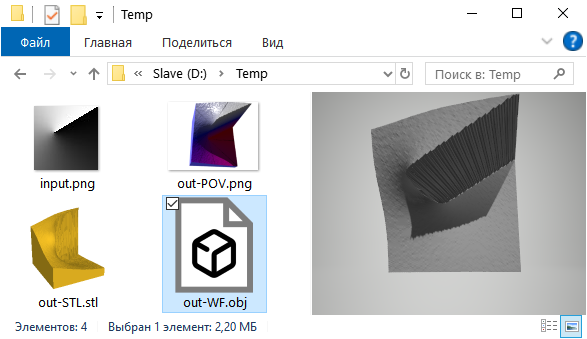
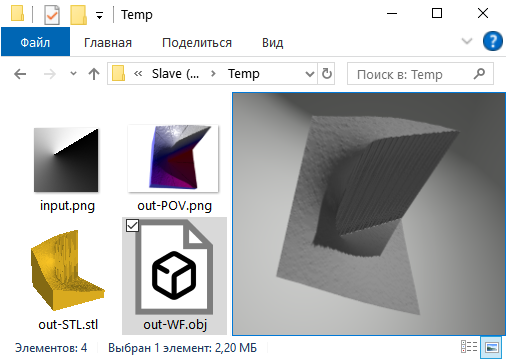
img2mesh 2.8.1.0

diff --git a/img2mesh.html b/img2mesh.html
@@ -13,12 +13,17 @@
 
 <body bgcolor="9B9B9B" background="bckg.png" topmargin="0" leftmargin="0" rightmargin="0" bottommargin="0" marginheight="0" marginwidth="0">
     <h1 class="darkbg">POVRay img2mesh</h1>
-    <div class="lightbg justborder" style="min-height: 470px;"><img src="imgmesh/640/img2mesh.png" width="464" height="464" style="float: left; margin: 2px 12pt 2px 2px">
+    <div class="lightbg justborder" style="min-height: 470px;"><img src="imgmesh/640/img2mesh.png" width="464" height="464" class='floatleft'>
         <p>Pretty simple (well, it was initially) program that reads PNG image, and writes 3D mesh in <a href="https://www.povray.org/" target="_top">POVRay</a> format, using pixel X and Y coordinates for "south" and "east" position of 3D triangle mesh nodes, and, most important, pixel brightness as Z, that is, height of the node, thus converting image into sort of 3D landscape. After rendering POV scene thus obtained with POVRay (which is not just excellent, but also completely free 3D renderer) resulting image is obtained.</p>
-        <p>E. g., example image at the left was started as simple black and white drawing, converted to PNG, then some Gaussian Blur and maps added, and PNG fed to <b>img2mesh</b>.</p>
+        <p>E.&nbsp;g., example image at the left was started as simple black and white drawing, converted to PNG, then some Gaussian Blur and maps added, and PNG fed to <b>img2mesh</b>.</p>
         <p>Surely POVRay can import PNG and use them as "heightfields" directly, but <b>img2mesh</b> uses rather unusual conversion algorithm, providing extra quality for small heightfields.</p>
         <p><b>img2mesh</b> equipped with easy to use GUI for selecting input and output files.</p>
         <p>Default export to POV file suggests camera autofocus on object, object scaling to fit 1,&nbsp;1,&nbsp;1&nbsp;cube, and suitable scene structuring for easy editing later.</p>
+        <p><span class='red'><b>Update:</b></span> In version 2.8, beside complete rewriting of POVRay output, Wavefront OBJ and stereolithography STL export added.</p>
+        <div class='center'>
+            <p class='small center'>Screenshot of Windows Explorer window with test source PNG map and resulting output preview:</p>
+            <img src="imgmesh/printscreen.png" width='507' height='360' alt="Preview" class='center'>
+        </div>
         <p>For Windows users, compiled Windows 64-bit exe file is <a href='https://github.com/Dnyarri/img2mesh/releases/latest' target="_top">available for download in Release section of GitHub</a>. For other platforms, use Python sources - program is rather self-contained, you will find the only non-standard import (PyPNG) enclosed to download.</p><br>
         <p>Move to <a href="https://github.com/Dnyarri/img2mesh" target="_top">img2mesh at GitHub</a> for downloads.</p>
         <p class="right">Move back to <a href="https://dnyarri.github.io" target="_top">main page</a>.</p>

diff --git a/content.html b/content.html
@@ -21,9 +21,11 @@
     </div>
     <h3 class="darkbg">Amble, i.e., the projects:</h3>
     <h4 class="darkbg">POVRay img2mesh</h4>
-    <div class="lightbg justborder" style="min-height: 236px;"><img src="imgmesh/320/img2mesh.png" width="232" height="232" class="floatleft">
-        <p>Program for converting PNG image into <a href="https://www.povray.org/" target="_top">POVRay</a> 3D mesh, so that bright pixels turns into high peaks on resulting 3D landscape - the more is brightness of source image pixel, the higher is 3D mesh node point. Exported POV file contains everything necessary to be rendered right out of the box (camera, lights, texture), or may be edited later. <a href="img2mesh.html" target="content"><i>Read more...</i></a>
-        </p>
+    <div class="lightbg justborder" style="min-height: 236px;"><a href="img2mesh.html" target="content"><img src="imgmesh/320/img2mesh.png" width="232" height="232" class="floatleft"></a>
+        <p>Program for converting PNG image into <a href="https://www.povray.org/" target="_top">POVRay</a> 3D mesh, so that bright pixels turns into high peaks on resulting 3D landscape - the more is brightness of source image pixel, the higher is 3D mesh node point. Exported POV file contains everything necessary to be rendered right out of the box (camera, lights, texture), or may be edited later.</p>
+        <p><span class='red'><b>Update:</b></span> In version 2.8, beside complete rewriting of POVRay output, Wavefront OBJ and stereolithography STL export added.</p>
+        <p class='right'><a href="img2mesh.html" target="content"><i>Read more...</i></a></p>
+        
     </div>
     <h4 class="darkbg">POVRay mosaic</h4>
     <div class="lightbg justborder" style="min-height: 244px;">

diff --git a/content.css b/content.css
@@ -125,3 +125,13 @@ a:visited {
 .right {
     text-align: right;
 }
+
+.red {
+    border: thin solid #ff00008a;
+    background-color: rgba(255, 38, 0, 0.123);
+    border-radius: 6px;
+}
+
+.small {
+    font-size: 10pt;
+}
